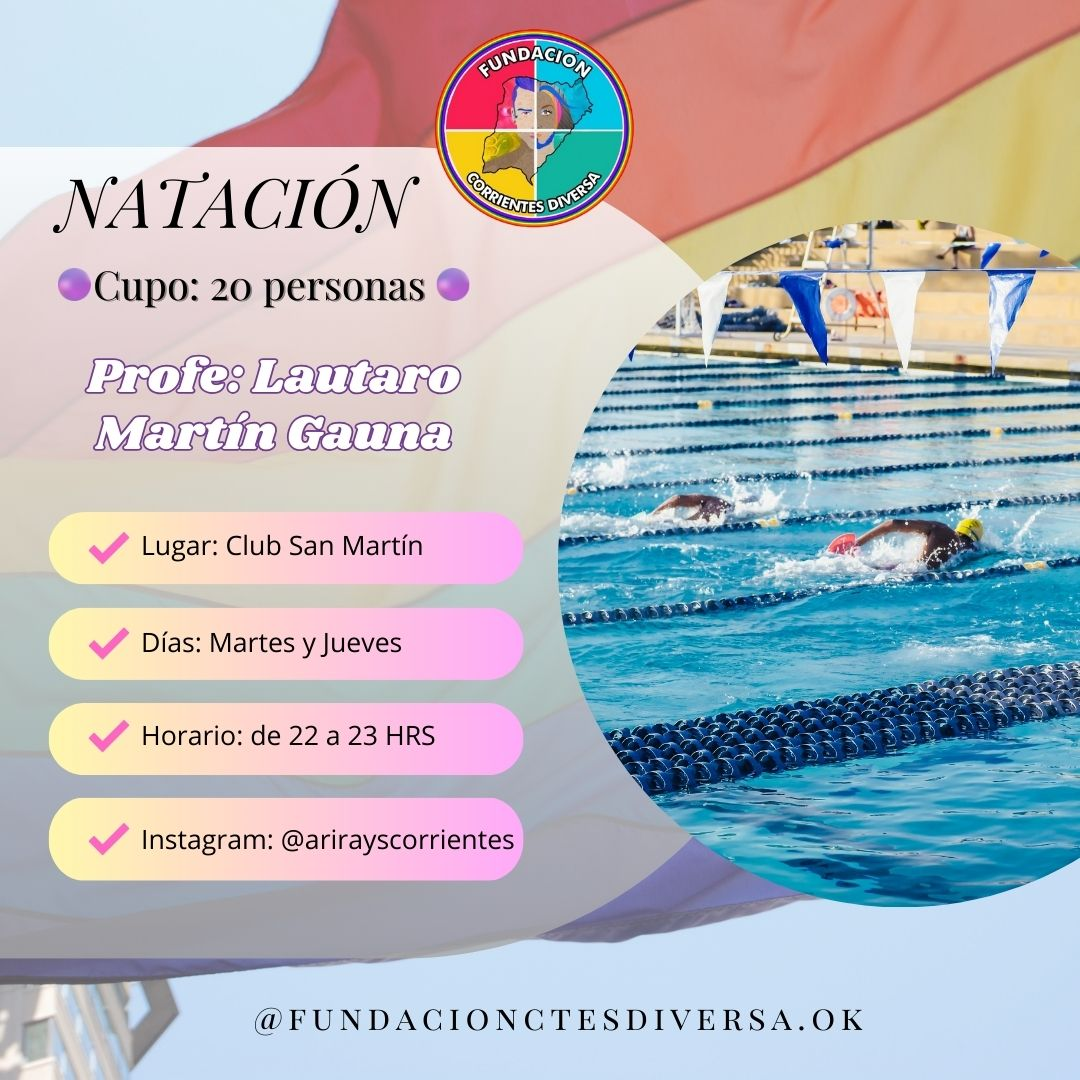
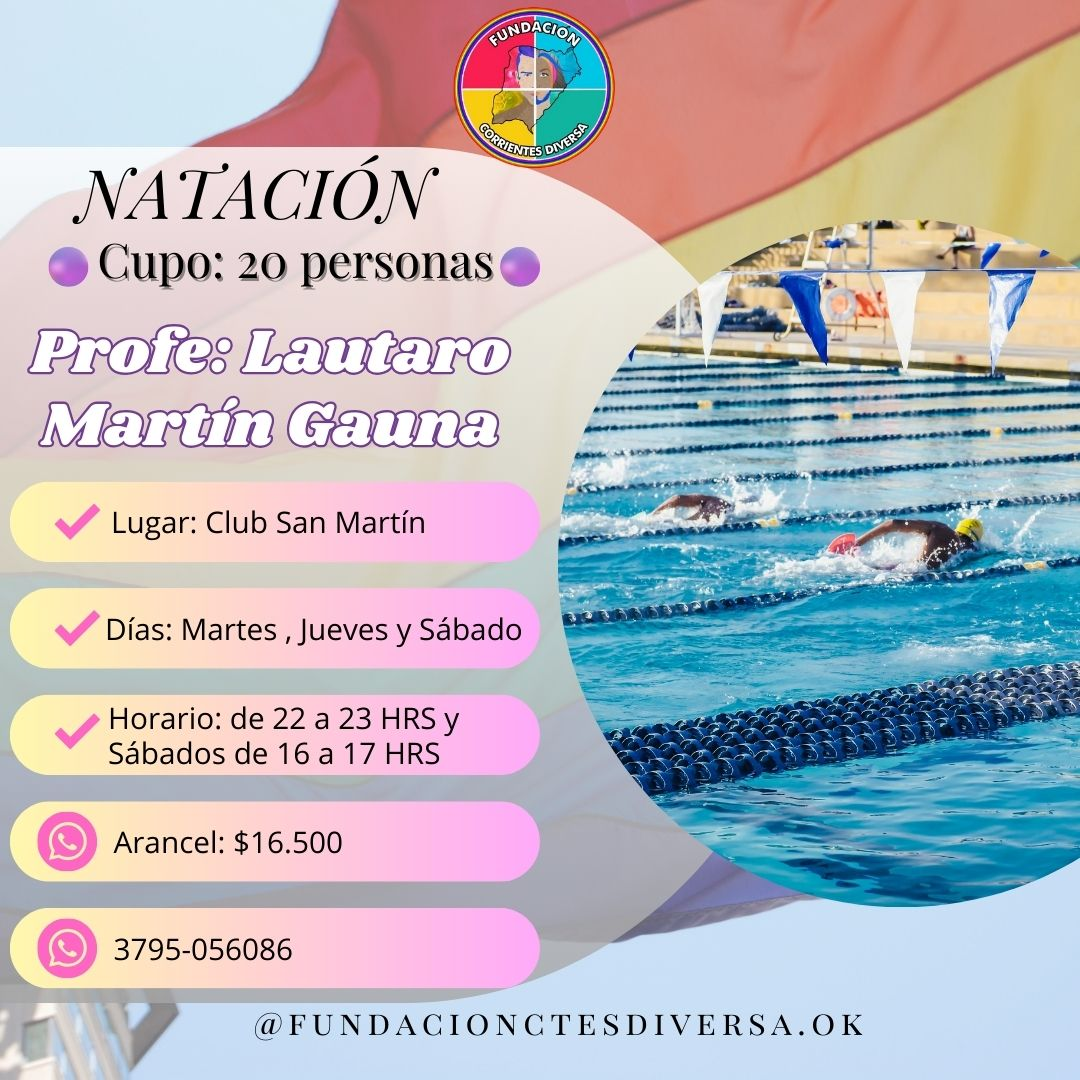
inscripciones abiertas

Changed region(s): [[0.0, 0.0, 0.7944, 0.9778], [0.6111, 0.2139, 0.6417, 0.2444]]

diff --git a/pasteleria.html b/pasteleria.html
@@ -9,6 +9,9 @@
     <link rel="stylesheet" href="https://cdn.jsdelivr.net/npm/bootstrap-icons@1.11.3/font/bootstrap-icons.min.css">
     <link href="https://fonts.googleapis.com/css2?family=Mochiy+Pop+P+One&display=swap" rel="stylesheet">
     <link href="https://fonts.googleapis.com/css2?family=Anton&display=swap" rel="stylesheet">
+    <!-- fuente de actividad-->
+    <link href="https://fonts.googleapis.com/css2?family=Bungee&display=swap" rel="stylesheet">
+    <!-- fuente de actividad-->
     <link rel="stylesheet" href="estilos.css">
     <script src="script.js"></script>
     <link rel="shortcut icon" href="img/Fundaac-logo.png">
@@ -17,7 +20,7 @@
 <body>
     <nav class="navbar navbar-expand-sm bg-success navbar-success">
         <div class="container-fluid">
-            <a class="navbar-brand" href="https://actividades-diversa.vercel.app/">
+            <a class="navbar-brand" href="index.html">
                 <img src="img/Fundaac-logo.png" alt="" style="height: 50px; width:50px;">
               </a>
             <button class="btn btn-lg text-white" type="button" data-bs-toggle="offcanvas" data-bs-target="#demo">
@@ -58,18 +61,38 @@
     <main class="container">
         <img class="img-fluid rounded-bottom-2 border border-2 border-secondary mx-auto d-block" src="img/pasteleria.jpeg" alt="" style="width: 100%;">
 
-        <div class="card mt-4 mb-4" style="font-family: 'Impact', sans-serif; font-style: normal;">
+        <div class="card mt-4 mb-4" style="font-family: 'Bungee', sans-serif; font-style: normal;">
           <div class="card-header bg-success text-white h4 text-center">Pastelería</div>
-          <div class="card-body">
-            <p>Contactanos: <a href="https://www.instagram.com/pastelitorosa6/" target="_blank" rel="noopener noreferrer" class="btn btn-outline-danger bi-instagram text-break"> pastelitorosa6</a></p>
-            <p>Cupo: <span class="text-secondary"> 10 personas (consultar cupos en nuestra red social de contacto)</span></p>
-            <p>Lugares: <span class="text-secondary"> Valenzuela 2771. Bº Progreso</span></p>
-            <p>Dias: <span class="text-secondary"> Martes, Jueves y Sábado</span></p>
-            <p>Horarios: <span class="text-secondary"> 18 a 20 hs</span></p>
-            <p>Inscripción: <a class="text-secondary" style="text-decoration: none;" onclick="inscripcion()"> ➡aquí⬅</a></p>
+          <div class="card-body d-grid">
+            <p class="btn btn-block btn-dark">Contactanos: 
+              <a href="https://www.instagram.com/pastelitorosa6/" target="_blank" rel="noopener noreferrer" class="btn btn-outline-danger bi-instagram text-break m-1"> pastelitorosa6</a>
+              <a href="https://wa.me/+543794253318" target="_blank" rel="noopener noreferrer" class="fw-bold btn btn-light bi-whatsapp text-break m-1"> +54 9 3794 25-3318</a>
+            </p>
+            <p class="btn btn-block btn-dark">Cupo: <span class="text-secondary"> 20 personas (consultar cupos en nuestra red social de contacto)</span></p>
+            <p class="btn btn-block btn-dark">Lugares: <span class="text-secondary"> San Juan 1131 (ACDP) </span></p>
+            <p class="btn btn-block btn-dark">Dias: <span class="text-secondary"> Sábado</span></p>
+            <p class="btn btn-block btn-dark">Horarios: <span class="text-secondary"> 18 a 20 hs</span></p>
+            <p class="btn btn-block btn-dark">Inscripción: <a class="text-secondary btn btn-light" style="text-decoration: none;" href="https://forms.gle/Tm61L12SAX5yEWZC8" target="_blank"> ➡aquí⬅</a></p>
           </div>
           <div class="card-footer">
-           
+            <a href="https://maps.app.goo.gl/uNdKH8UuFR52dtMeA" target="_blank" rel="noopener noreferrer" class="btn btn-success bi-geo-alt">ACDP</a>
+          </div>
+        </div>
+
+        <div class="card mt-4 mb-4 text-center" style="font-family: 'Bungee', sans-serif; font-style: normal;">
+          <div class="card-header bg-success text-white h4 text-center">Cuota</div>
+          <div class="card-body d-grid">
+            <p class="fw-bold">
+              Socios:<span class="text-danger"> "$3.000"</span>
+              <br>
+              No Socios:<span class="text-danger"> "$5.000"</span>
+            </p>
+            <p class="fw-bold">
+              <span class="text-success"> "La cuota la podés abonar al CBU de la fundación:"</span>
+          </p>
+          <p class="fw-bold">CBU: <input type="text" id="copyCbu" value="0940099330010170690010" disabled style="border: 0; text-align: center; font-weight: bold;" class="text-break"><button class="btn btn-outline-dark bi bi-copy" onclick="copiarCbu()"> copiar</button></p>
+          <p>Una vez abonada la cuota enviar comprobante junto con número de DNI y Nombre completo al siguiente número para registrar tu pago:</p>
+          <a href="https://wa.me/+543795005047" target="_blank" rel="noopener noreferrer" class="fw-bold btn btn-outline-dark bi-whatsapp text-break"> +54 9 3795 00-5047</a>
           </div>
         </div>
     </main>

diff --git a/natacion.html b/natacion.html
@@ -9,6 +9,9 @@
     <link rel="stylesheet" href="https://cdn.jsdelivr.net/npm/bootstrap-icons@1.11.3/font/bootstrap-icons.min.css">
     <link href="https://fonts.googleapis.com/css2?family=Mochiy+Pop+P+One&display=swap" rel="stylesheet">
     <link href="https://fonts.googleapis.com/css2?family=Anton&display=swap" rel="stylesheet">
+    <!-- fuente de actividad-->
+    <link href="https://fonts.googleapis.com/css2?family=Bungee&display=swap" rel="stylesheet">
+    <!-- fuente de actividad-->
     <link rel="stylesheet" href="estilos.css">
     <script src="script.js"></script>
     <link rel="shortcut icon" href="img/Fundaac-logo.png">
@@ -17,7 +20,7 @@
 <body>
     <nav class="navbar navbar-expand-sm bg-success navbar-success">
         <div class="container-fluid">
-            <a class="navbar-brand" href="https://actividades-diversa.vercel.app/">
+            <a class="navbar-brand" href="index.html">
                 <img src="img/Fundaac-logo.png" alt="" style="height: 50px; width:50px;">
               </a>
             <button class="btn btn-lg text-white" type="button" data-bs-toggle="offcanvas" data-bs-target="#demo">
@@ -58,18 +61,35 @@
     <main class="container">
         <img class="img-fluid rounded-bottom-2 border border-2 border-secondary mx-auto d-block" src="img/natacion.jpeg" alt="" style="width: 100%;">
 
-        <div class="card mt-4 mb-4" style="font-family: 'Impact', sans-serif; font-style: normal;">
+        <div class="card mt-4 mb-4" style="font-family: 'Bungee', sans-serif; font-style: normal;">
           <div class="card-header bg-success text-white h4 text-center">Natación</div>
-          <div class="card-body">
-            <p>Contactanos: <a href="https://www.instagram.com/arirayscorrientes/" target="_blank" rel="noopener noreferrer" class="btn btn-outline-danger bi-instagram text-break"> arirayscorrientes</a></p>
-            <p>Cupo: <span class="text-secondary"> 20 personas (consultar cupos en nuestra red social de contacto)</span></p>
-            <p>Lugares: <span class="text-secondary"> Club San Martín</span></p>
-            <p>Dias: <span class="text-secondary"> Martes y Jueves</span></p>
-            <p>Horarios: <span class="text-secondary"> 22 a 23 hs</span></p>
-            <p>Inscripción: <a class="text-secondary" style="text-decoration: none;" onclick="inscripcion()"> ➡aquí⬅</a></p>
+          <div class="card-body d-grid">
+            <p class="btn btn-block btn-dark">Contactanos: 
+              <a href="https://www.instagram.com/arirayscorrientes/" target="_blank" rel="noopener noreferrer" class="btn btn-outline-danger bi-instagram text-break m-1"> arirayscorrientes</a>
+              <a href="https://wa.me/+543795056068" target="_blank" rel="noopener noreferrer" class="fw-bold btn btn-light bi-whatsapp text-break m-1"> +54 9 3795 05-6068</a>
+            </p>
+            <p class="btn btn-block btn-dark">Cupo: <span class="text-secondary"> 20 personas (consultar cupos en nuestra red social de contacto)</span></p>
+            <p class="btn btn-block btn-dark">Lugares: <span class="text-secondary"> Club San Martín</span></p>
+            <p class="btn btn-block btn-dark">Dias : <span class="text-secondary"> Martes, Jueves 22 a 23 hs. Sabados 16 a 17 hs.</span></p>
+            <p class="btn btn-block btn-dark">Inscripción: <a class="text-secondary btn btn-light" style="text-decoration: none;" href="https://forms.gle/Tm61L12SAX5yEWZC8" target="_blank"> ➡aquí⬅</a></p>
           </div>
           <div class="card-footer">
             <a href="https://maps.app.goo.gl/7QHrLyy4dBQjAaJb8" target="_blank" rel="noopener noreferrer" class="btn btn-success bi-geo-alt">Club San Martín</a>
+          </div>
+        </div>
+
+        <div class="card mt-4 mb-4 text-center" style="font-family: 'Bungee', sans-serif; font-style: normal;">
+          <div class="card-header bg-success text-white h4 text-center">Cuota</div>
+          <div class="card-body d-grid">
+            <p class="fw-bold">
+              Arancel:<span class="text-danger"> "$16.500"</span>
+            </p>
+            <p class="fw-bold">
+              <span class="text-success"> "La cuota la podés abonar al CBU de la fundación:"</span>
+          </p>
+          <p class="fw-bold">CBU: <input type="text" id="copyCbu" value="0940099330010170690010" disabled style="border: 0; text-align: center; font-weight: bold;" class="text-break"><button class="btn btn-outline-dark bi bi-copy" onclick="copiarCbu()"> copiar</button></p>
+          <p>Una vez abonada la cuota enviar comprobante junto con número de DNI y Nombre completo al siguiente número para registrar tu pago:</p>
+          <a href="https://wa.me/+543795005047" target="_blank" rel="noopener noreferrer" class="fw-bold btn btn-outline-dark bi-whatsapp text-break"> +54 9 3795 00-5047</a>
           </div>
         </div>
     </main>

diff --git a/hockey.html b/hockey.html
@@ -9,6 +9,9 @@
     <link rel="stylesheet" href="https://cdn.jsdelivr.net/npm/bootstrap-icons@1.11.3/font/bootstrap-icons.min.css">
     <link href="https://fonts.googleapis.com/css2?family=Mochiy+Pop+P+One&display=swap" rel="stylesheet">
     <link href="https://fonts.googleapis.com/css2?family=Anton&display=swap" rel="stylesheet">
+    <!-- fuente de actividad-->
+    <link href="https://fonts.googleapis.com/css2?family=Bungee&display=swap" rel="stylesheet">
+    <!-- fuente de actividad-->
     <link rel="stylesheet" href="estilos.css">
     <script src="script.js"></script>
     <link rel="shortcut icon" href="img/Fundaac-logo.png">
@@ -17,7 +20,7 @@
 <body>
     <nav class="navbar navbar-expand-sm bg-success navbar-success">
         <div class="container-fluid">
-            <a class="navbar-brand" href="https://actividades-diversa.vercel.app/">
+            <a class="navbar-brand" href="index.html">
                 <img src="img/Fundaac-logo.png" alt="" style="height: 50px; width:50px;">
               </a>
             <button class="btn btn-lg text-white" type="button" data-bs-toggle="offcanvas" data-bs-target="#demo">
@@ -58,19 +61,30 @@
     <main class="container">
         <img class="img-fluid rounded-bottom-2 border border-2 border-secondary mx-auto d-block" src="img/hockey.jpeg" alt="" style="width: 100%;">
 
-        <div class="card mt-4 mb-4" style="font-family: 'Impact', sans-serif; font-style: normal;">
+        <div class="card mt-4 mb-4" style="font-family: 'Bungee', sans-serif; font-style: normal;">
             <div class="card-header bg-success text-white h4 text-center">Hockey</div>
-            <div class="card-body">
-              <p>Contactanos: <a href="https://www.instagram.com/katupyrycorrienteshockey/" target="_blank" rel="noopener noreferrer" class="btn btn-outline-danger bi-instagram text-break"> katupyrycorrienteshockey</a></p>
-              <p>Cupo: <span class="text-secondary"> 35 personas (consultar cupos en nuestra red social de contacto)</span></p>
-              <p>Lugares: <span class="text-secondary"> Cef 18 y Parque Mitre</span></p>
-              <p>Dias: <span class="text-secondary"> Lunes, Miercoles y Viernes</span></p>
-              <p>Horarios: <span class="text-secondary"> 19 a 21 hs y 18 a 20hs</span></p>
-              <p>Inscripción: <a class="text-secondary" style="text-decoration: none;" onclick="inscripcion()"> ➡aquí⬅</a></p>
+            <div class="card-body d-grid">
+              <p class="btn btn-block btn-dark">Contactanos: 
+                <a href="https://www.instagram.com/katupyrycorrienteshockey/" target="_blank" rel="noopener noreferrer" class="btn btn-outline-danger bi-instagram text-break"> katupyrycorrienteshockey</a>
+              </p>
+              <p class="btn btn-block btn-dark">Cupo: <span class="text-secondary"> 35 personas (consultar cupos en nuestra red social de contacto)</span></p>
+              <p class="btn btn-block btn-dark">Lugares: <span class="text-secondary"> Cef 18 y Parque Mitre</span></p>
+              <p class="btn btn-block btn-dark">Dias: <span class="text-secondary"> Lunes, Miercoles y Viernes</span></p>
+              <p class="btn btn-block btn-dark">Horarios: <span class="text-secondary"> 19 a 21 hs y 18 a 20hs</span></p>
+              <p class="btn btn-block btn-dark">Inscripción: <a class="text-secondary btn btn-light" style="text-decoration: none;" target="_blank" href="https://forms.gle/Tm61L12SAX5yEWZC8"> ➡aquí⬅</a></p>
             </div>
             <div class="card-footer">
               <a href="https://maps.app.goo.gl/xrpmTenjorat3NeS8" target="_blank" rel="noopener noreferrer" class="btn btn-success bi-geo-alt">Cef 18</a>
               <a href="https://maps.app.goo.gl/UMCPriU8eG2ukKUD9" target="_blank" rel="noopener noreferrer" class="btn btn-success bi-geo-alt">Parque Mitre</a>
+            </div>
+          </div>
+
+          <div class="card mt-4 mb-4 text-center" style="font-family: 'Bungee', sans-serif; font-style: normal;">
+            <div class="card-header bg-success text-white h4 text-center">Cuota</div>
+            <div class="card-body d-grid">
+              <p class="fw-bold">
+                Arancel:<span class="text-danger"> "Gratis"</span>
+              </p>
             </div>
           </div>
     </main>

diff --git a/yoga.html b/yoga.html
@@ -9,6 +9,9 @@
     <link rel="stylesheet" href="https://cdn.jsdelivr.net/npm/bootstrap-icons@1.11.3/font/bootstrap-icons.min.css">
     <link href="https://fonts.googleapis.com/css2?family=Mochiy+Pop+P+One&display=swap" rel="stylesheet">
     <link href="https://fonts.googleapis.com/css2?family=Anton&display=swap" rel="stylesheet">
+    <!-- fuente de actividad-->
+    <link href="https://fonts.googleapis.com/css2?family=Bungee&display=swap" rel="stylesheet">
+    <!-- fuente de actividad-->
     <link rel="stylesheet" href="estilos.css">
     <script src="script.js"></script>
     <link rel="shortcut icon" href="img/Fundaac-logo.png">
@@ -17,7 +20,7 @@
 <body>
     <nav class="navbar navbar-expand-sm bg-success navbar-success">
         <div class="container-fluid">
-            <a class="navbar-brand" href="https://actividades-diversa.vercel.app/">
+            <a class="navbar-brand" href="index.html">
                 <img src="img/Fundaac-logo.png" alt="" style="height: 50px; width:50px;">
               </a>
             <button class="btn btn-lg text-white" type="button" data-bs-toggle="offcanvas" data-bs-target="#demo">
@@ -58,18 +61,29 @@
     <main class="container">
         <img class="img-fluid rounded-bottom-2 border border-2 border-secondary mx-auto d-block" src="img/yoga.jpeg" alt="" style="width: 100%;">
 
-        <div class="card mt-4 mb-4" style="font-family: 'Impact', sans-serif; font-style: normal;">
+        <div class="card mt-4 mb-4" style="font-family: 'Bungee', sans-serif; font-style: normal;">
           <div class="card-header bg-success text-white h4 text-center">Yoga</div>
-          <div class="card-body">
-            <p>Contactanos: <a href="https://www.instagram.com/cristianjaviercabrera/" target="_blank" rel="noopener noreferrer" class="btn btn-outline-danger bi-instagram text-break"> cristianjaviercabrera</a></p>
-            <p>Cupo: <span class="text-secondary"> 30 personas (consultar cupos en nuestra red social de contacto)</span></p>
-            <p>Lugares: <span class="text-secondary"> San Juan 1131 (ACDP)</span></p>
-            <p>Dias: <span class="text-secondary"> Martes</span></p>
-            <p>Horarios: <span class="text-secondary"> 16 a 18 hs</span></p>
-            <p>Inscripción: <a class="text-secondary" style="text-decoration: none;" onclick="inscripcion()"> ➡aquí⬅</a></p>
+          <div class="card-body d-grid">
+            <p class="btn btn-block btn-dark">Contactanos: 
+              <a href="https://www.instagram.com/cristianjaviercabrera/" target="_blank" rel="noopener noreferrer" class="btn btn-outline-danger bi-instagram text-break"> cristianjaviercabrera</a>
+            </p>
+            <p class="btn btn-block btn-dark">Cupo: <span class="text-secondary"> 30 personas (consultar cupos en nuestra red social de contacto)</span></p>
+            <p class="btn btn-block btn-dark">Lugares: <span class="text-secondary"> San Juan 1131 (ACDP)</span></p>
+            <p class="btn btn-block btn-dark">Dias: <span class="text-secondary"> Martes</span></p>
+            <p class="btn btn-block btn-dark">Horarios: <span class="text-secondary"> 16 a 18 hs</span></p>
+            <p class="btn btn-block btn-dark">Inscripción: <a class="text-secondary btn btn-light" style="text-decoration: none;" onclick="inscripcion()"> ➡aquí⬅</a></p>
           </div>
           <div class="card-footer">
             <a href="https://maps.app.goo.gl/uNdKH8UuFR52dtMeA" target="_blank" rel="noopener noreferrer" class="btn btn-success bi-geo-alt">ACDP</a>
+          </div>
+        </div>
+
+        <div class="card mt-4 mb-4 text-center" style="font-family: 'Bungee', sans-serif; font-style: normal;">
+          <div class="card-header bg-success text-white h4 text-center">Cuota</div>
+          <div class="card-body d-grid">
+            <p class="fw-bold">
+              Arancel:<span class="text-danger"> "Cuando tengamos el costo lo publicaremos"</span>
+            </p>
           </div>
         </div>
     </main>

diff --git a/manicura.html b/manicura.html
@@ -9,6 +9,9 @@
     <link rel="stylesheet" href="https://cdn.jsdelivr.net/npm/bootstrap-icons@1.11.3/font/bootstrap-icons.min.css">
     <link href="https://fonts.googleapis.com/css2?family=Mochiy+Pop+P+One&display=swap" rel="stylesheet">
     <link href="https://fonts.googleapis.com/css2?family=Anton&display=swap" rel="stylesheet">
+    <!-- fuente de actividad-->
+    <link href="https://fonts.googleapis.com/css2?family=Bungee&display=swap" rel="stylesheet">
+    <!-- fuente de actividad-->
     <link rel="stylesheet" href="estilos.css">
     <script src="script.js"></script>
     <link rel="shortcut icon" href="img/Fundaac-logo.png">
@@ -17,7 +20,7 @@
 <body>
     <nav class="navbar navbar-expand-sm bg-success navbar-success">
         <div class="container-fluid">
-            <a class="navbar-brand" href="https://actividades-diversa.vercel.app/">
+            <a class="navbar-brand" href="index.html">
                 <img src="img/Fundaac-logo.png" alt="" style="height: 50px; width:50px;">
               </a>
             <button class="btn btn-lg text-white" type="button" data-bs-toggle="offcanvas" data-bs-target="#demo">
@@ -58,18 +61,26 @@
     <main class="container">
         <img class="img-fluid rounded-bottom-2 border border-2 border-secondary mx-auto d-block" src="img/manicura.jpeg" alt="" style="width: 100%;">
 
-        <div class="card mt-4 mb-4" style="font-family: 'Impact', sans-serif; font-style: normal;">
+        <div class="card mt-4 mb-4" style="font-family: 'Bungee', sans-serif; font-style: normal;">
           <div class="card-header bg-success text-white h4 text-center">Manicura</div>
-          <div class="card-body">
-            <p>Contactanos: <a href="https://www.instagram.com/nailsdiversa/" target="_blank" rel="noopener noreferrer" class="btn btn-outline-danger bi-instagram text-break"> nailsdiversa</a></p>
-            <p>Cupo: <span class="text-secondary"> 10 personas (consultar cupos en nuestra red social de contacto)</span></p>
-            <p>Lugar: <span class="text-secondary"> Bº Independencia, 60 viv. sector "K", Casa 1</span></p>
-            <p>Dias: <span class="text-secondary"> Lunes o Jueves</span></p>
-            <p>Horarios: <span class="text-secondary"> 17 a 20hs</span></p>
-            <p>Inscripción: <a class="text-secondary" style="text-decoration: none;" onclick="inscripcion()"> ➡aquí⬅</a></p>
+          <div class="card-body d-grid">
+            <p class="btn btn-block btn-dark">Contactanos: <a href="https://www.instagram.com/nailsdiversa/" target="_blank" rel="noopener noreferrer" class="btn btn-outline-danger bi-instagram text-break"> nailsdiversa</a></p>
+            <p class="btn btn-block btn-dark">Cupo: <span class="text-secondary"> 10 personas (consultar cupos en nuestra red social de contacto)</span></p>
+            <p class="btn btn-block btn-dark">Lugar: <span class="text-secondary"> Bº Independencia, 60 viv. sector "K", Casa 1</span></p>
+            <p class="btn btn-block btn-dark">Dias: <span class="text-secondary"> Lunes o Jueves</span></p>
+            <p class="btn btn-block btn-dark">Horarios: <span class="text-secondary"> 17 a 20hs</span></p>
+            <p class="btn btn-block btn-dark">Inscripción: <a class="text-secondary btn btn-light" style="text-decoration: none;" onclick="inscripcion()"> ➡aquí⬅</a></p>
           </div>
           <div class="card-footer">
-            
+          </div>
+        </div>
+
+        <div class="card mt-4 mb-4 text-center" style="font-family: 'Bungee', sans-serif; font-style: normal;">
+          <div class="card-header bg-success text-white h4 text-center">Cuota</div>
+          <div class="card-body d-grid">
+            <p class="fw-bold">
+              Arancel:<span class="text-danger"> "Cuando tengamos el costo lo publicaremos"</span>
+            </p>
           </div>
         </div>
     </main>

diff --git a/index.html b/index.html
@@ -17,7 +17,7 @@
 <body>
     <nav class="navbar navbar-expand-sm bg-success navbar-success">
         <div class="container-fluid">
-            <a class="navbar-brand" href="https://actividades-diversa.vercel.app/">
+            <a class="navbar-brand" href="index.html">
                 <img src="img/Fundaac-logo.png" alt="" style="height: 50px; width:50px;">
               </a>
             <button class="btn btn-lg text-white" type="button" data-bs-toggle="offcanvas" data-bs-target="#demo">
@@ -85,9 +85,9 @@
                 <div class="card-header h3 bg-dark text-white" style="text-align: center;">INSCRIPCIONES ABIERTAS</div>
                 <div class="card-body">
                     <P style="text-align: justify; font-family: 'Anton', sans-serif; font-style: normal;" class="m-2">
-                        Dejamos a disposición las distintas actividades que ofrecemos para vos. "Algunas son aranceladas y otras totalmente gratuitas". <span class="fw-bold"> Pagando una actividad podés elegir otra más de las que son pagas "sin costo".</span>
+                        Dejamos a disposición las distintas actividades que ofrecemos para vos. "Algunas son aranceladas y otras totalmente gratuitas". <span class="fw-bold"></span>
                     <P style="text-align: justify; font-family: 'Anton', sans-serif; font-style: normal;" class="m-2">
-                        Para inscribirte te dejamos el formulario de inscripción <a onclick="inscripcion()" href="#" class="btn btn-dark">Aquí</a>
+                        Para inscribirte te dejamos el formulario de inscripción <a target="_blank" href="https://forms.gle/Tm61L12SAX5yEWZC8" class="btn btn-dark">Aquí</a>
                     </p>
                     <P style="text-align: justify; font-family: 'Anton', sans-serif; font-style: normal;" class="m-2">
                         Para cualquier duda o mayor detalle consultar a los siguientes contactos: 

diff --git a/script.js b/script.js
@@ -19,3 +19,15 @@ function ocultar(){
             `,
             });
         }
+
+        function copiarCbu(){
+            let text = document.getElementById('copyCbu')
+            text.select()
+            navigator.clipboard.writeText(text.value)
+            
+            Swal.fire({
+                text: 'Copiado El CBU: ' +text.value,
+                imageUrl: "img/cuenta.jpeg",
+                imageWidth: 500,
+                });
+        }
